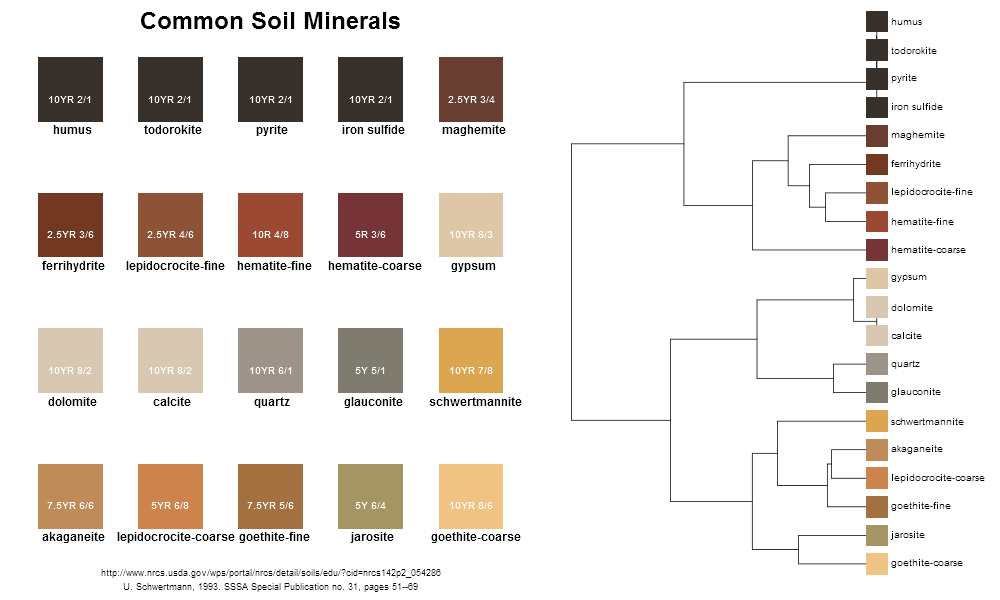
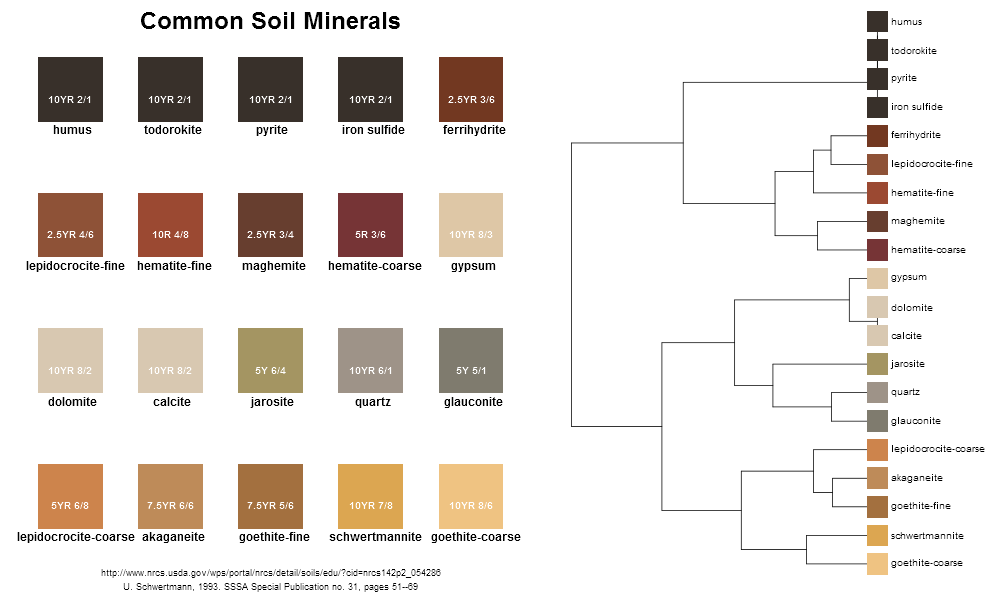
small fix for Munsell colors in aqp: these are in sRGB notation

diff --git a/static/soil-mineral-colors.html b/static/soil-mineral-colors.html
@@ -71,8 +71,8 @@ code > span.in { color: #60a0b0; font-weight: bold; font-style: italic; } /* Inf
 
 <div id="coloring-agents-in-the-soil-environment" class="section level1">
 <h1>Coloring Agents in the Soil Environment</h1>
-<p>2016-10-20 <br> D.E. Beaudette</p>
[1 lines of base64/hex data omitted]
+<p>2016-10-25 <br> D.E. Beaudette</p>
[1 lines of base64/hex data omitted]
 <p><a href="files/common-soil-minerals.pdf">PDF version</a></p>
 <div id="major-pigmenting-agents-in-the-soil" class="section level2">
 <h2>Major Pigmenting Agents in the Soil</h2>
@@ -164,9 +164,9 @@ n &lt;-<span class="st"> </span><span class="kw">ceiling</span>(<span class="kw"
 <span class="co"># read from top-left to bottom-right</span>
 g &lt;-<span class="st"> </span><span class="kw">expand.grid</span>(<span class="dt">x=</span><span class="dv">1</span>:n, <span class="dt">y=</span>n:<span class="dv">1</span>)[<span class="dv">1</span>:<span class="kw">nrow</span>(soil_minerals),]
 
-<span class="co"># convert Munsell -&gt; RGB -&gt; LAB</span>
+<span class="co"># convert Munsell -&gt; sRGB -&gt; LAB</span>
 col.rgb &lt;-<span class="st"> </span><span class="kw">munsell2rgb</span>(soil_minerals$hue, soil_minerals$value, soil_minerals$chroma, <span class="dt">return_triplets =</span> <span class="ot">TRUE</span>)
-col.lab &lt;-<span class="st"> </span><span class="kw">as</span>(<span class="kw">RGB</span>(<span class="kw">as.matrix</span>(col.rgb)), <span class="st">'LAB'</span>)@coords
+col.lab &lt;-<span class="st"> </span><span class="kw">as</span>(<span class="kw">sRGB</span>(<span class="kw">as.matrix</span>(col.rgb)), <span class="st">'LAB'</span>)@coords
 <span class="kw">row.names</span>(col.lab) &lt;-<span class="st"> </span>soil_minerals$mineral
 
 <span class="co"># divisive hierarchical clustering of LAB coordinates</span>
@@ -188,7 +188,7 @@ p &lt;-<span class="st"> </span><span class="kw">as.phylo</span>(h)
 <span class="kw">mtext</span>(<span class="st">'U. Schwertmann, 1993. SSSA Special Publication no. 31, pages 51--69'</span>, <span class="dt">side=</span><span class="dv">1</span>, <span class="dt">cex=</span><span class="fl">0.75</span>, <span class="dt">line=</span>-<span class="fl">0.5</span>)
 
 <span class="co"># dendrogram + tip labels with mineral colors</span>
-<span class="kw">plot</span>(p, <span class="dt">cex=</span><span class="fl">0.85</span>, <span class="dt">label.offset=</span><span class="dv">1</span>, <span class="dt">font=</span><span class="dv">1</span>)
+<span class="kw">plot</span>(p, <span class="dt">cex=</span><span class="fl">0.85</span>, <span class="dt">label.offset=</span><span class="fl">1.5</span>, <span class="dt">font=</span><span class="dv">1</span>)
 <span class="kw">tiplabels</span>(<span class="dt">pch=</span><span class="dv">15</span>, <span class="dt">cex=</span><span class="dv">4</span>, <span class="dt">col=</span>soil_minerals$col)
 
 <span class="co"># dev.off()</span></code></pre></div>

diff --git a/static/soil-mineral-colors.md b/static/soil-mineral-colors.md
@@ -8,7 +8,7 @@ output:
 
 Coloring Agents in the Soil Environment
 ==================================
-2016-10-20
+2016-10-25
 <br>
 D.E. Beaudette
 
@@ -78,9 +78,9 @@ n <- ceiling(sqrt(nrow(soil_minerals)))
 # read from top-left to bottom-right
 g <- expand.grid(x=1:n, y=n:1)[1:nrow(soil_minerals),]
 
-# convert Munsell -> RGB -> LAB
+# convert Munsell -> sRGB -> LAB
 col.rgb <- munsell2rgb(soil_minerals$hue, soil_minerals$value, soil_minerals$chroma, return_triplets = TRUE)
-col.lab <- as(RGB(as.matrix(col.rgb)), 'LAB')@coords
+col.lab <- as(sRGB(as.matrix(col.rgb)), 'LAB')@coords
 row.names(col.lab) <- soil_minerals$mineral
 
 # divisive hierarchical clustering of LAB coordinates
@@ -102,7 +102,7 @@ mtext('http://www.nrcs.usda.gov/wps/portal/nrcs/detail/soils/edu/?cid=nrcs142p2_
 mtext('U. Schwertmann, 1993. SSSA Special Publication no. 31, pages 51--69', side=1, cex=0.75, line=-0.5)
 
 # dendrogram + tip labels with mineral colors
-plot(p, cex=0.85, label.offset=1, font=1)
+plot(p, cex=0.85, label.offset=1.5, font=1)
 tiplabels(pch=15, cex=4, col=soil_minerals$col)
 
 # dev.off()
